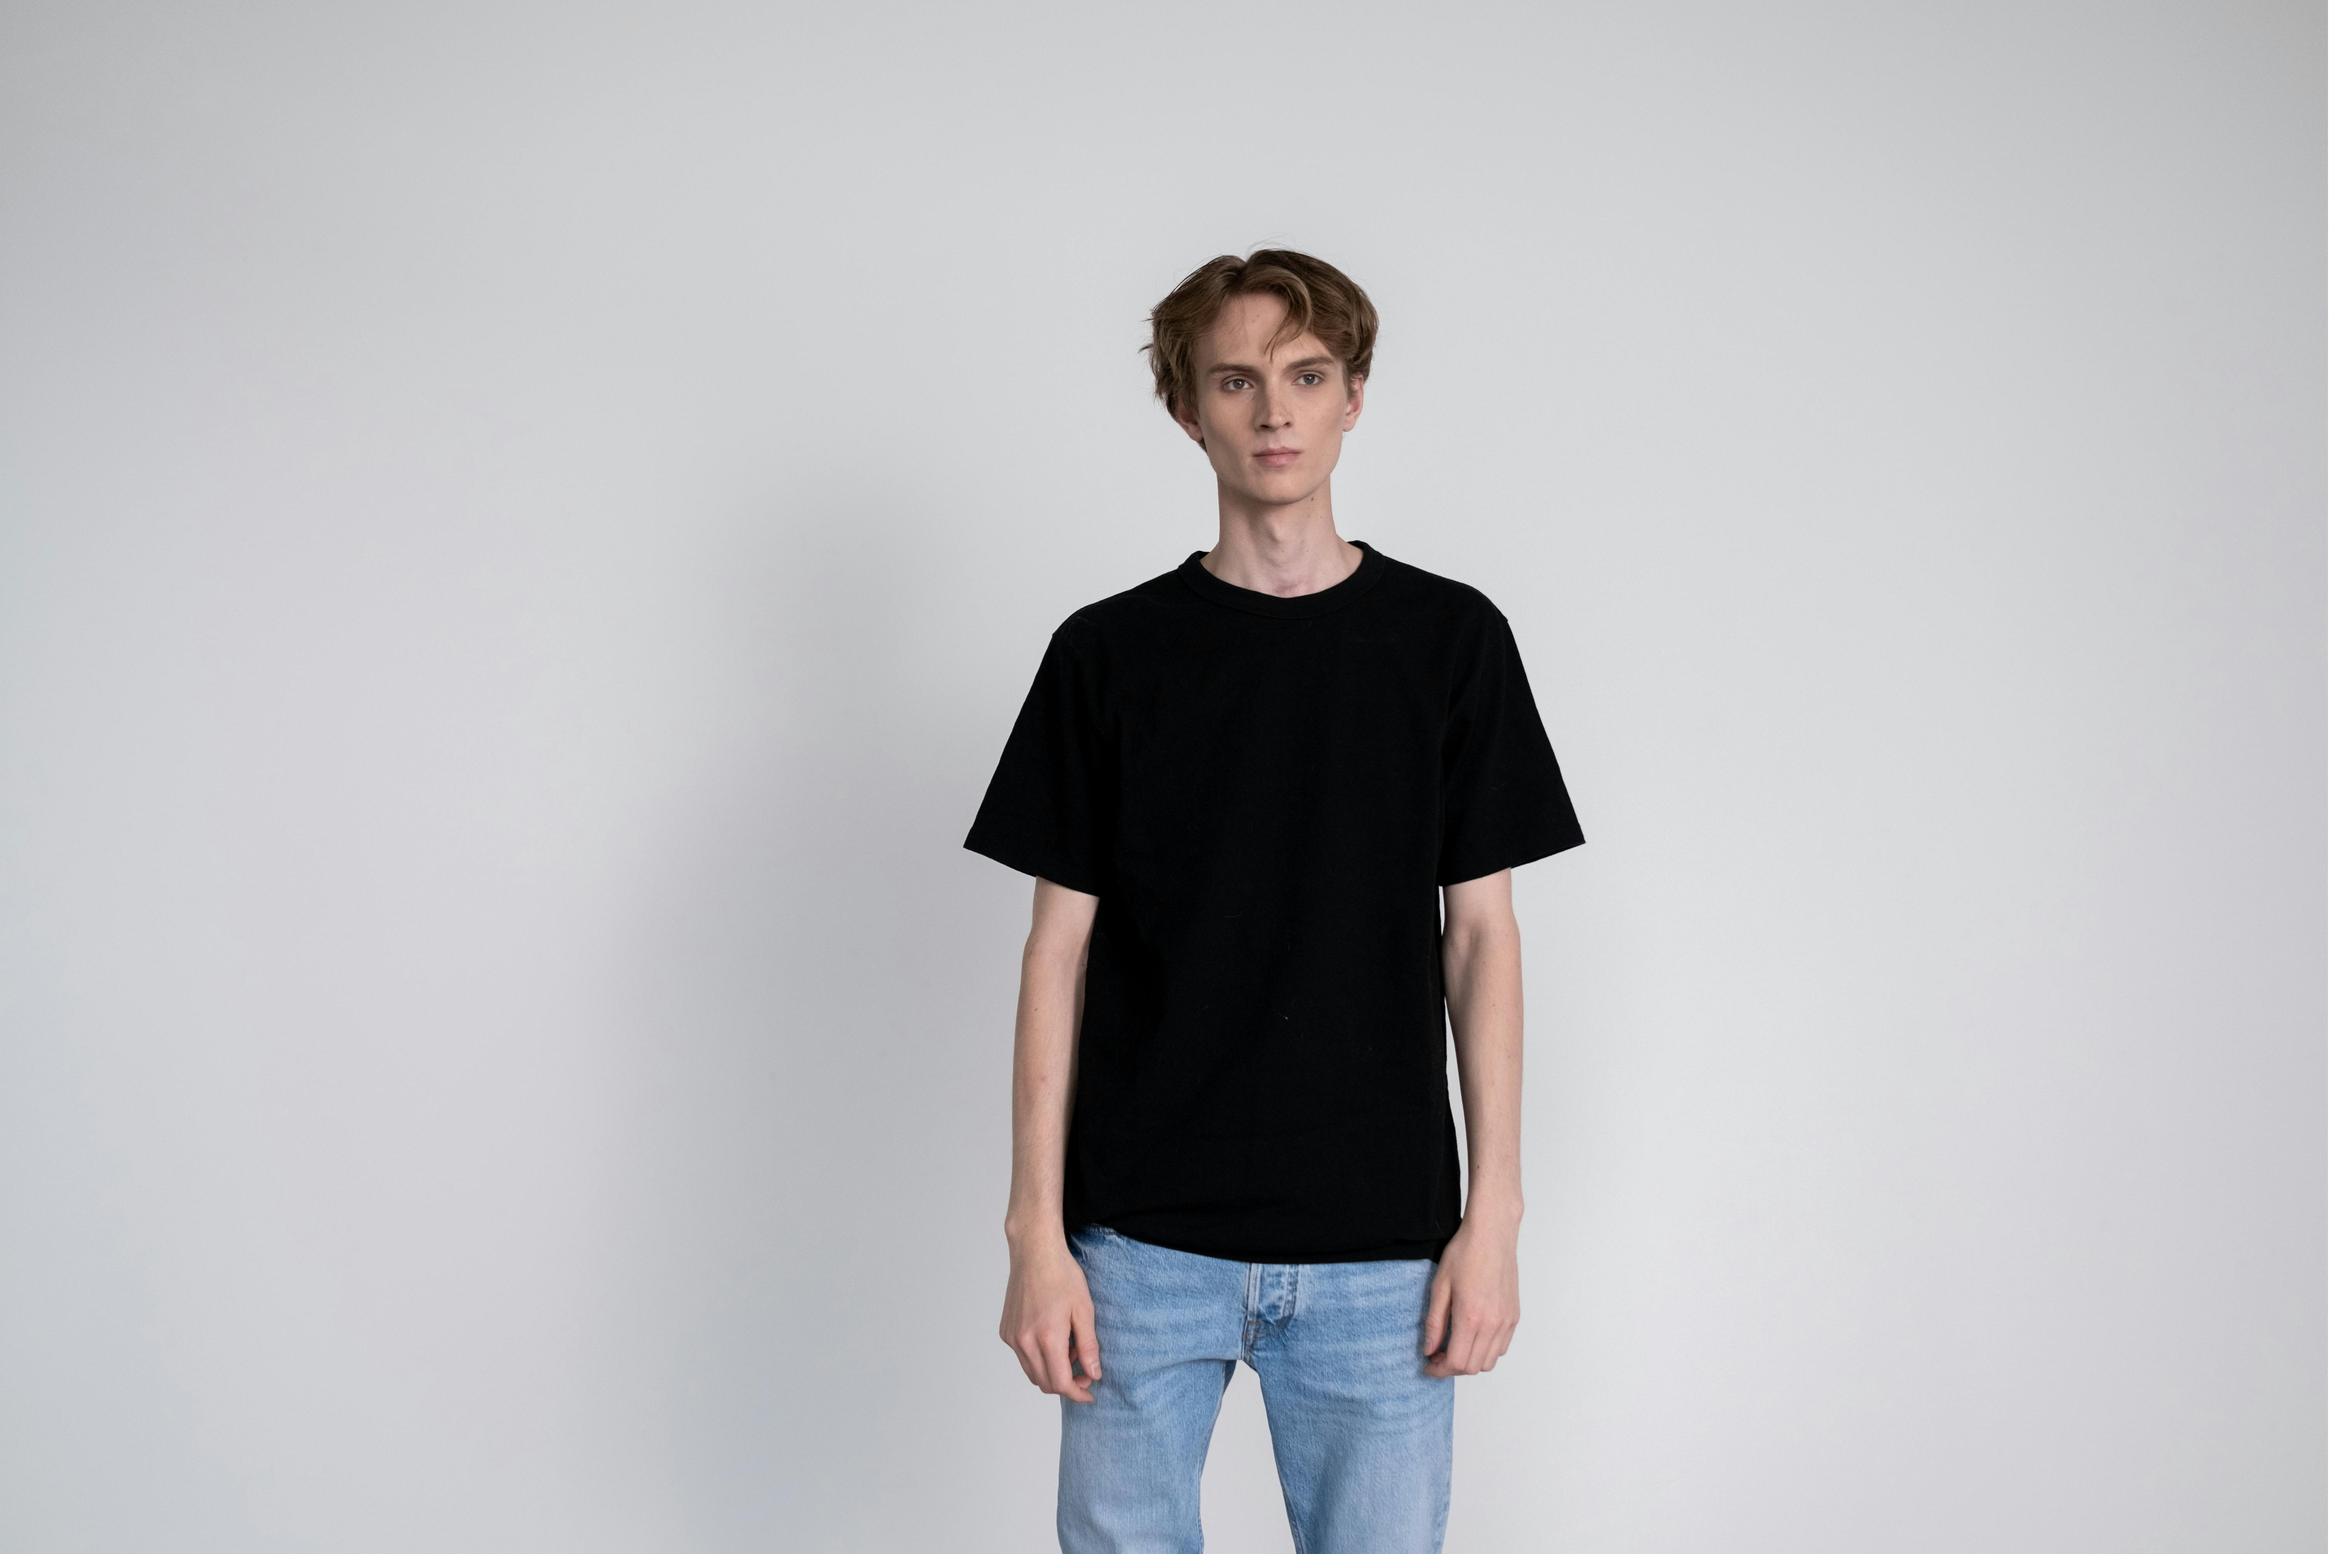
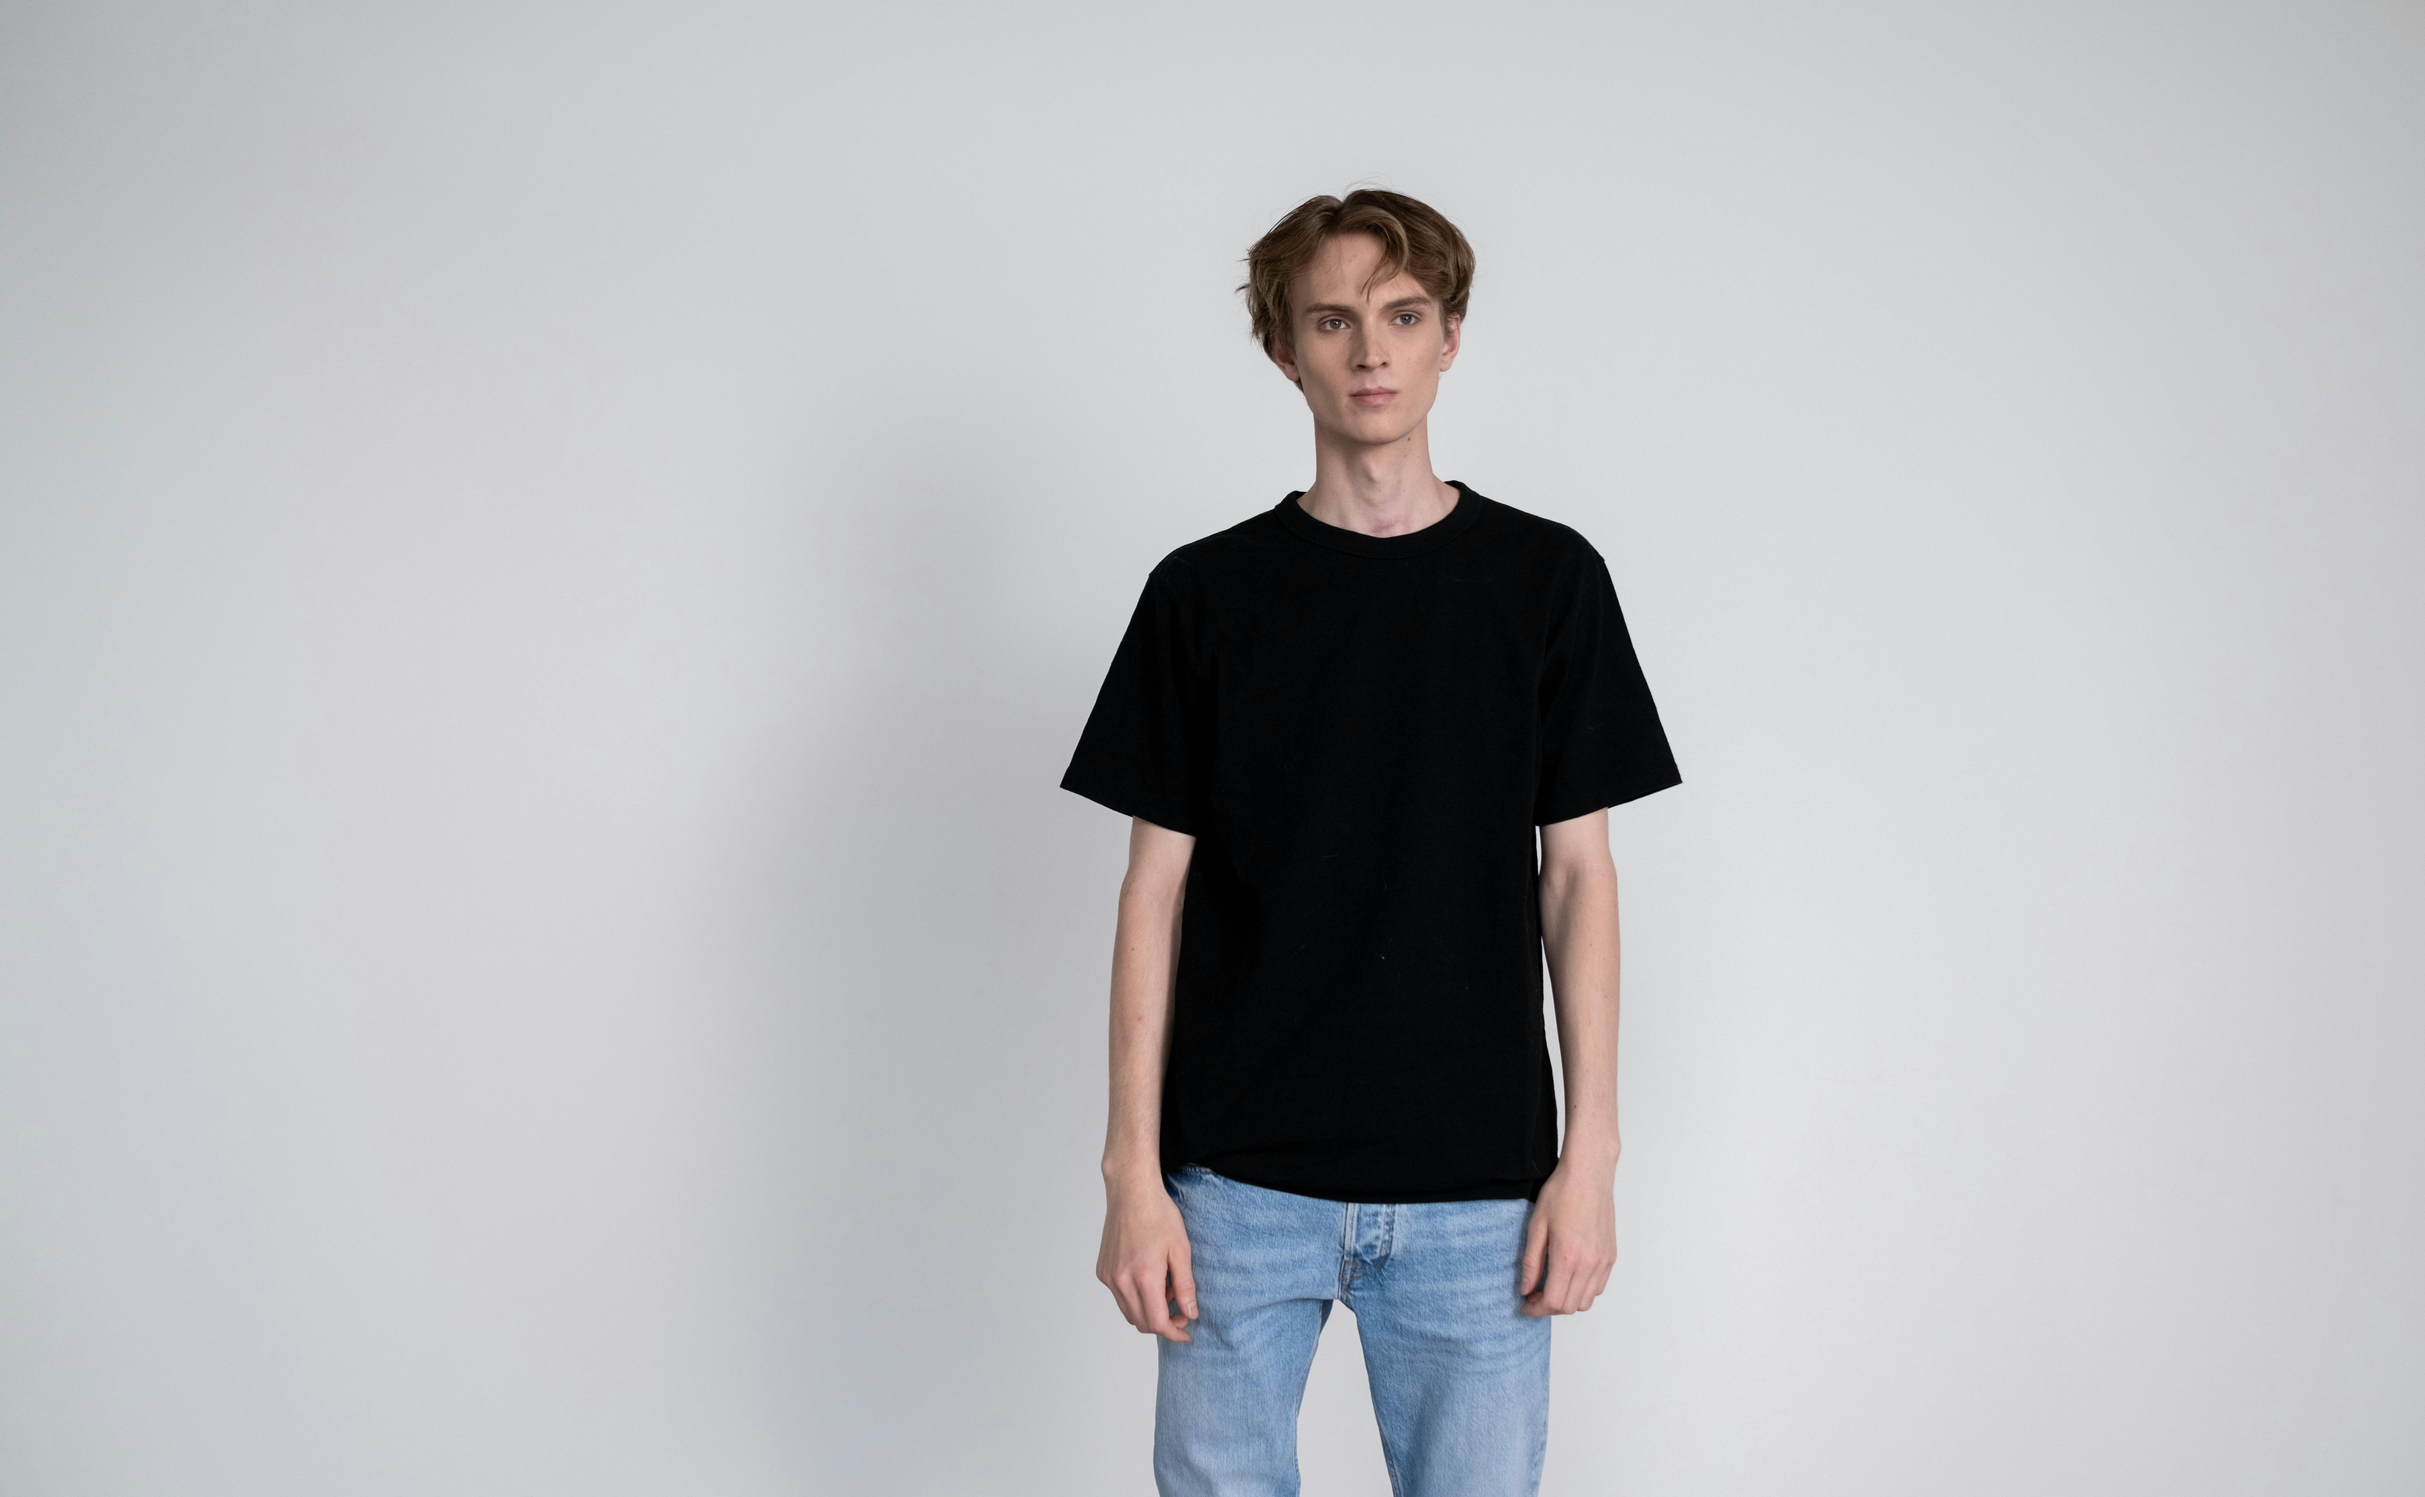
feat: enhance layout and styling across various components; update section elements for better structure

Changed region(s): [[0.4045, 0.1245, 0.7156, 1.0], [0.9957, 0.0, 1.0, 1.0]]

diff --git a/src/pages/Home/Home.jsx b/src/pages/Home/Home.jsx
@@ -90,10 +90,10 @@ function Home() {
   return (
     <div className="">
       <Hero />
-      <SectionTitle className={"mt-10 px-4"}>
+      {/* <SectionTitle className={"mt-10 px-4"}>
         <Title title={"Shop By Category"} />
-      </SectionTitle>
-      <CategoryCarousel />
+      </SectionTitle> */}
+      {/* <CategoryCarousel /> */}
       <ProductsCollection
         CollectionName={"Best Sellers"}
         products={BestSellers}
@@ -106,7 +106,8 @@ function Home() {
         badgeColor={"green"}
         badgeText={"New Arrival"}
       />
-      <div className="px-4 sm:px-6 lg:px-8 py-16 bg-[#000]">
+      {/* Categories display */}
+      <section className="py-16 mb-0 bg-[#000]">
          <div className="flex items-center gap-2  md:gap-4 mb-8">
               <h1 className="tracking-tighter font-bold text-mobile-h2 md:text-desktop-h2 text-white">
                 Browse Our Categories
@@ -119,7 +120,7 @@ function Home() {
     <CategoriesGrid firstColSpan="col-span-7" secondColSpan="col-span-5" firstImg={Sweatshirt_category} secondImg={Denim_category} />
 
 </div>
-      </div>
+      </section>
 
       <WhyUs />
       <NewsLetter />

diff --git a/src/pages/Home/components/CategoriesGrid.jsx b/src/pages/Home/components/CategoriesGrid.jsx
@@ -2,10 +2,10 @@
   return (
     <div className="grid gap-6 grid-cols-12 max-w-[1200px] w-full mx-auto items-center">
       <div className={`${firstColSpan} bg-gray-400 h-[300px] rounded-[20px] overflow-hidden`}>
-        <img src={firstImg} alt="" className="h-full w-full object-cover" />
+        <img src={firstImg} alt="" className="h-full w-full object-cover " />
       </div>
       <div className={`${secondColSpan} bg-gray-400 h-[300px] rounded-[20px] overflow-hidden`}>
-        <img src={secondImg} alt="" className="h-full w-full object-cover" />
+        <img src={secondImg} alt="" className="h-full w-full object-cover " />
       </div>
     </div>
   );

diff --git a/src/pages/Home/components/WhyUs.jsx b/src/pages/Home/components/WhyUs.jsx
@@ -23,7 +23,7 @@ const benefits = [
 ];
 export default function WhyUs() {
   return (
-    <div className="space-y-12 my-20 px-4 md:px-6 text-center py-20 bg-black text-white">
+    <section className="space-y-12 md:px-6 text-center mt-10 md:mt-14 lg:mt-16">
       <h2 className="text-3xl font-bold tracking-tight">Why Choose Us.</h2>
       <div className="grid grid-cols-1 md:grid-cols-3 place-items-center">
         {benefits.map((benefit, index) => (
@@ -39,6 +39,6 @@ export default function WhyUs() {
           </div>
         ))}
       </div>
-    </div>
+    </section>
   );
 }

diff --git a/src/pages/Home/components/Hero.jsx b/src/pages/Home/components/Hero.jsx
@@ -5,7 +5,8 @@ import { ArrowUpRight } from "lucide-react";
 function Hero() {
   const { banner } = assets;
   return (
-    <div className="relative overflow-hidden rounded-4xl mx-2 md:mx-6 mt-4">
+    <section>
+    <div className="relative overflow-hidden rounded-4xl">
       <img
         src={banner}
         className="w-full h-[calc(100vh-75px)] object-cover "
@@ -26,6 +27,7 @@ function Hero() {
         </Button>
       </div>
     </div>
+    </section>
   );
 }
 

diff --git a/src/pages/Home/components/ProductsCollection.jsx b/src/pages/Home/components/ProductsCollection.jsx
@@ -12,8 +12,8 @@ export default function ProductsCollection({
   badgeColor,
 }) {
   return (
-    <div className="mx-auto w-full lg:px-0 px-8">
-      <SectionTitle className={"mt-10 md:px-4"}>
+    <section className="mx-auto w-full">
+      <SectionTitle className={"md:px-4"}>
         <Title title={CollectionName} />
 
         <Button
@@ -55,6 +55,6 @@ export default function ProductsCollection({
           />
         )}
       />
-    </div>
+    </section>
   );
 }

diff --git a/src/components/Title.jsx b/src/components/Title.jsx
@@ -2,7 +2,7 @@ import { ArrowUpRight } from "lucide-react";
 
 function Title({ title }) {
   return (
-    <div className="flex items-center gap-2  md:gap-4  pt-8 pb-4 justify-center text-center mb-3">
+    <div className="flex items-center gap-2  md:gap-4  pb-4 md:pb-8 justify-center text-center">
       <h1 className="tracking-tighter font-bold text-mobile-h2 md:text-desktop-h2">
         {title}
       </h1>

diff --git a/src/pages/Home/components/NewsLetter.jsx b/src/pages/Home/components/NewsLetter.jsx
@@ -3,7 +3,7 @@ import { Button } from "@/components/ui/Button";
 
 export default function NewsLetter() {
   return (
-    <section className="pb-16 text-center mx-4 ">
+    <section className="text-center">
       <div className="space-y-6 max-w-2xl mx-auto">
         <h2 className="text-3xl font-bold tracking-tight">Stay Connected.</h2>
         <p className="text-zinc-400 text-lg">

diff --git a/src/App.css b/src/App.css
@@ -1,0 +1,21 @@
+section {
+  padding-left: 1rem;
+  padding-right: 1rem;
+  margin-bottom: 2.5rem;
+}
+
+@media (min-width: 640px) {
+  section {
+    padding-left: 1.5rem;
+    padding-right: 1.5rem;
+     margin-bottom: 3.5rem;
+  }
+}
+
+@media (min-width: 1024px) {
+  section {
+    padding-left: 2rem;
+    padding-right: 2rem;
+     margin-bottom: 4rem;
+  }
+}
